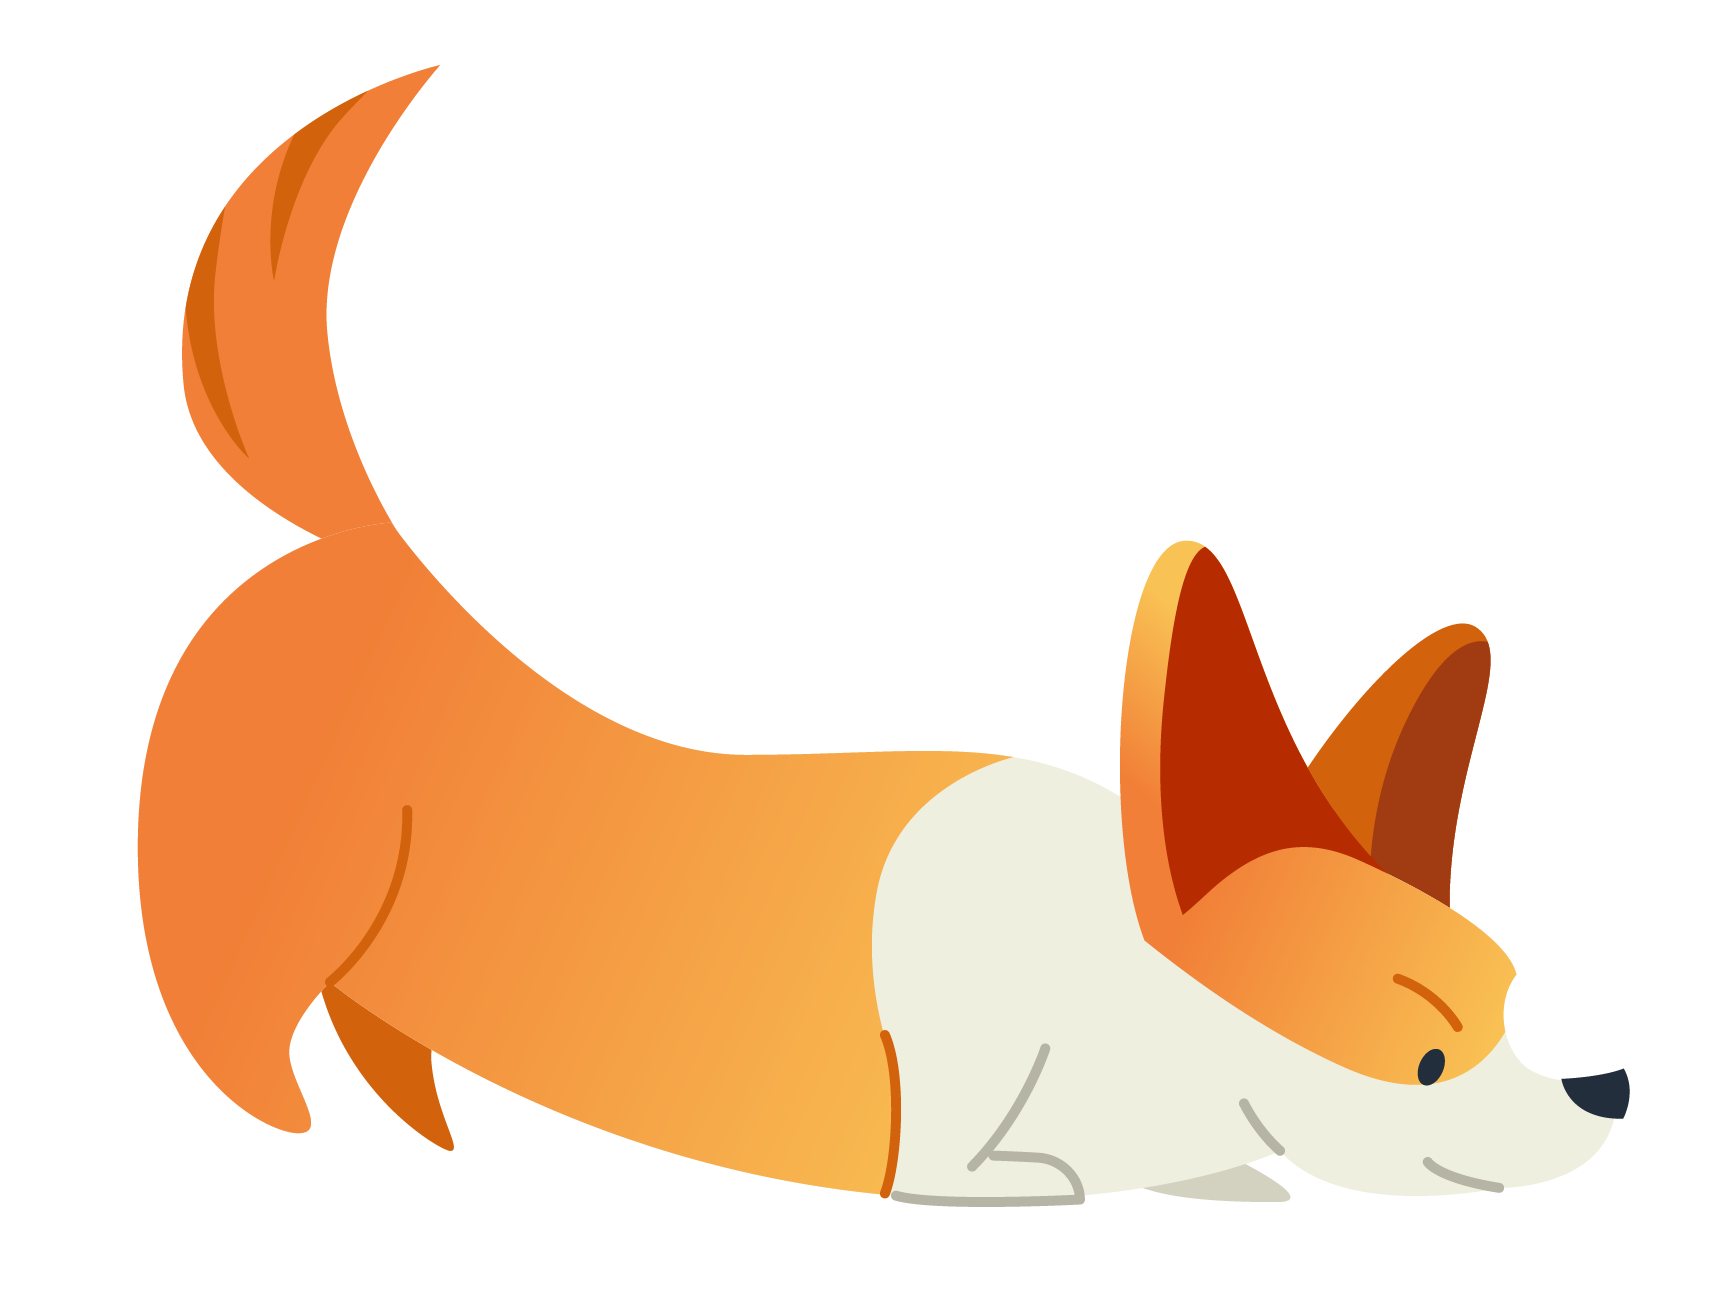
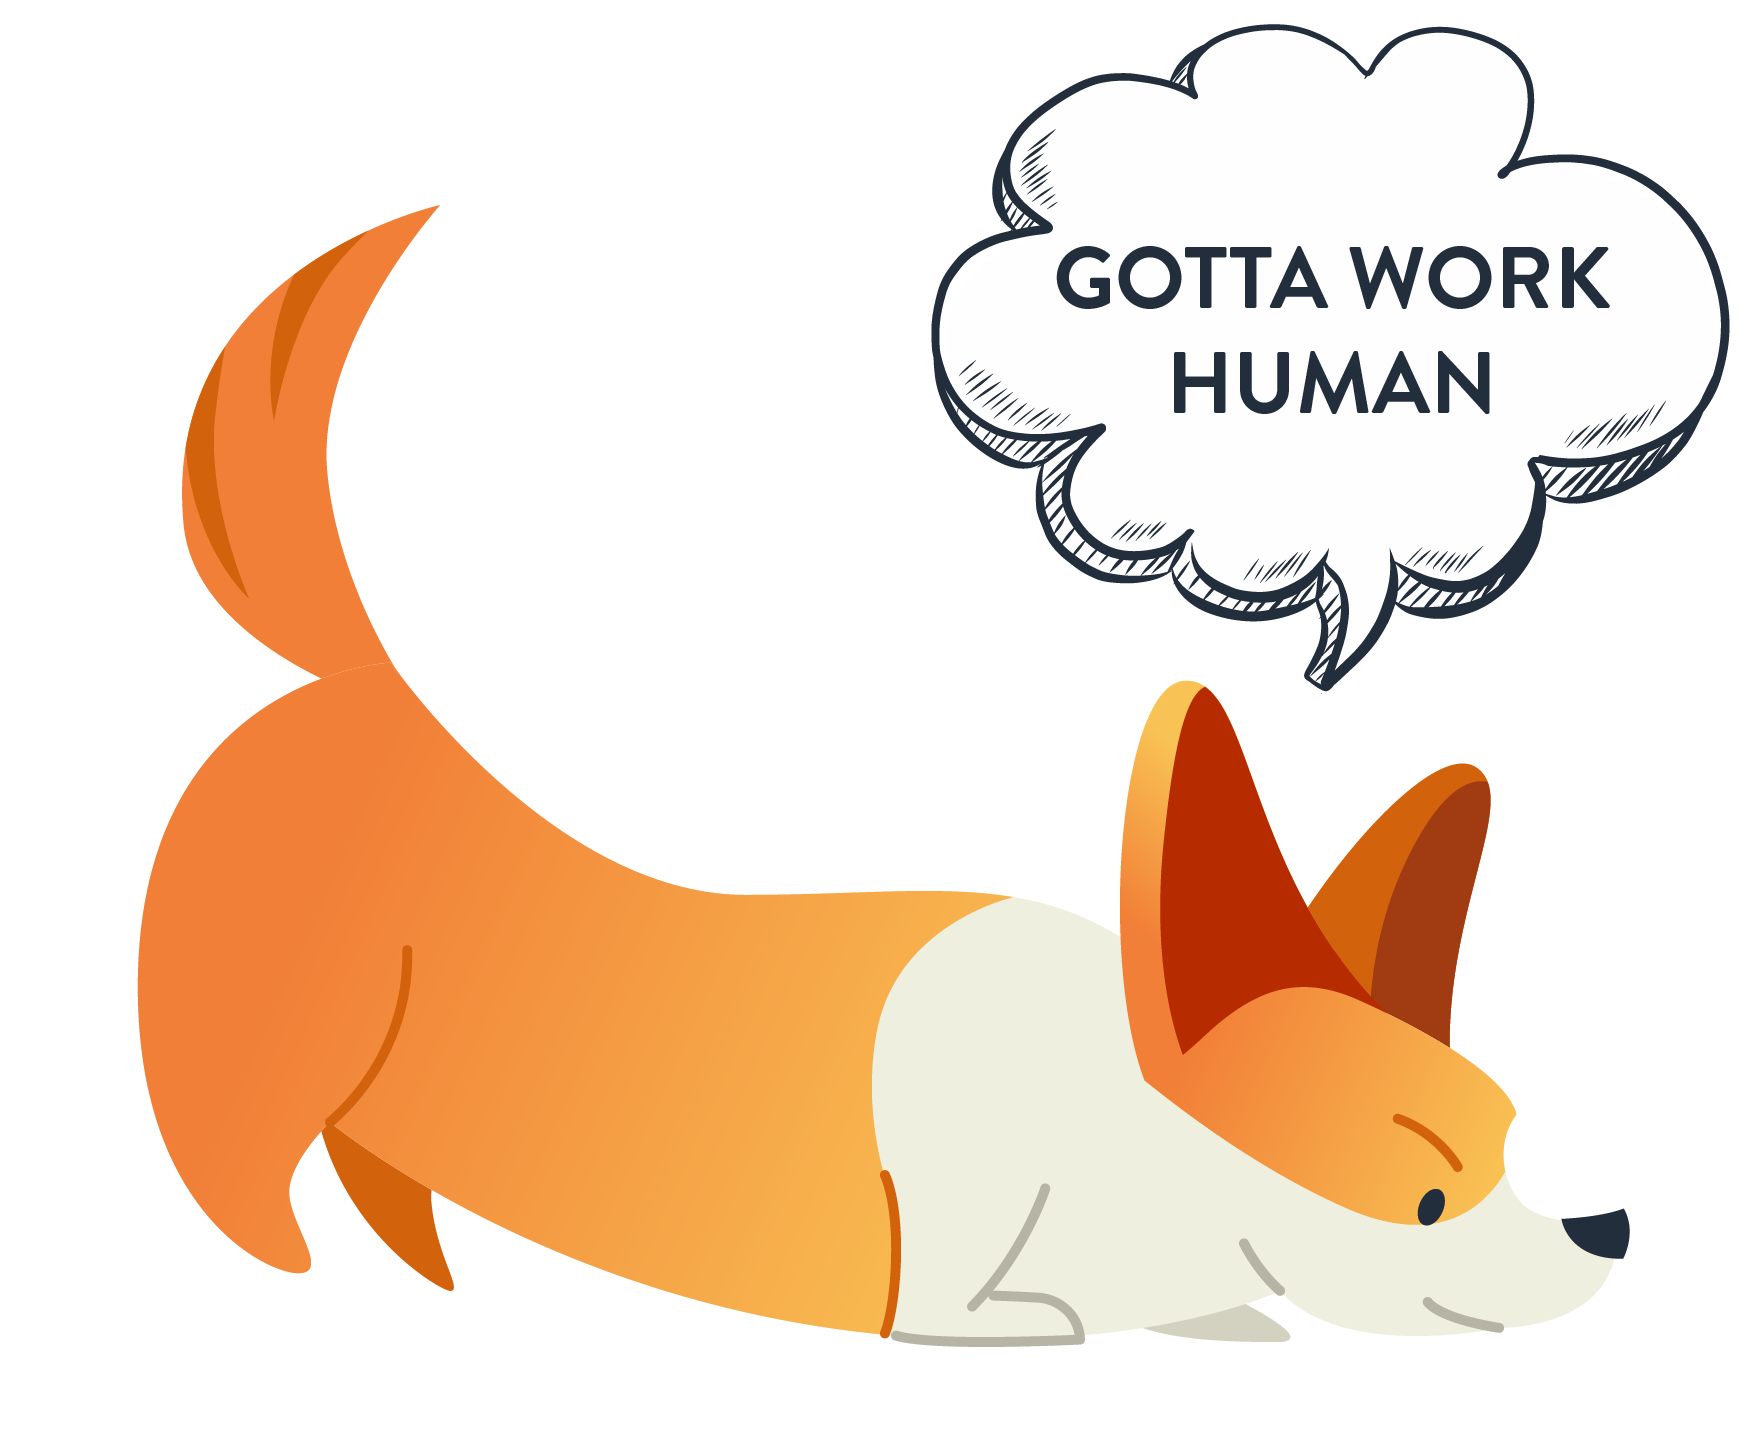
add cute quips

diff --git a/src/components/TimerScreen/Timer.js b/src/components/TimerScreen/Timer.js
@@ -58,8 +58,8 @@ export default class Timer extends React.Component {
     sendPushNotification = body => {
         // https://facebook.github.io/react-native/docs/pushnotificationios.html
         const details = {
-            alertTitle: '🐶 Oh no!',
-            alertBody: body || 'Don\'t get distracted! Hurry back to continue being pawductive!'
+            alertTitle: '🐶 Uh oh!',
+            alertBody: body || 'Did you get distracted by a squirrel?!'
         }
 
         PushNotificationIOS.presentLocalNotification(details)
